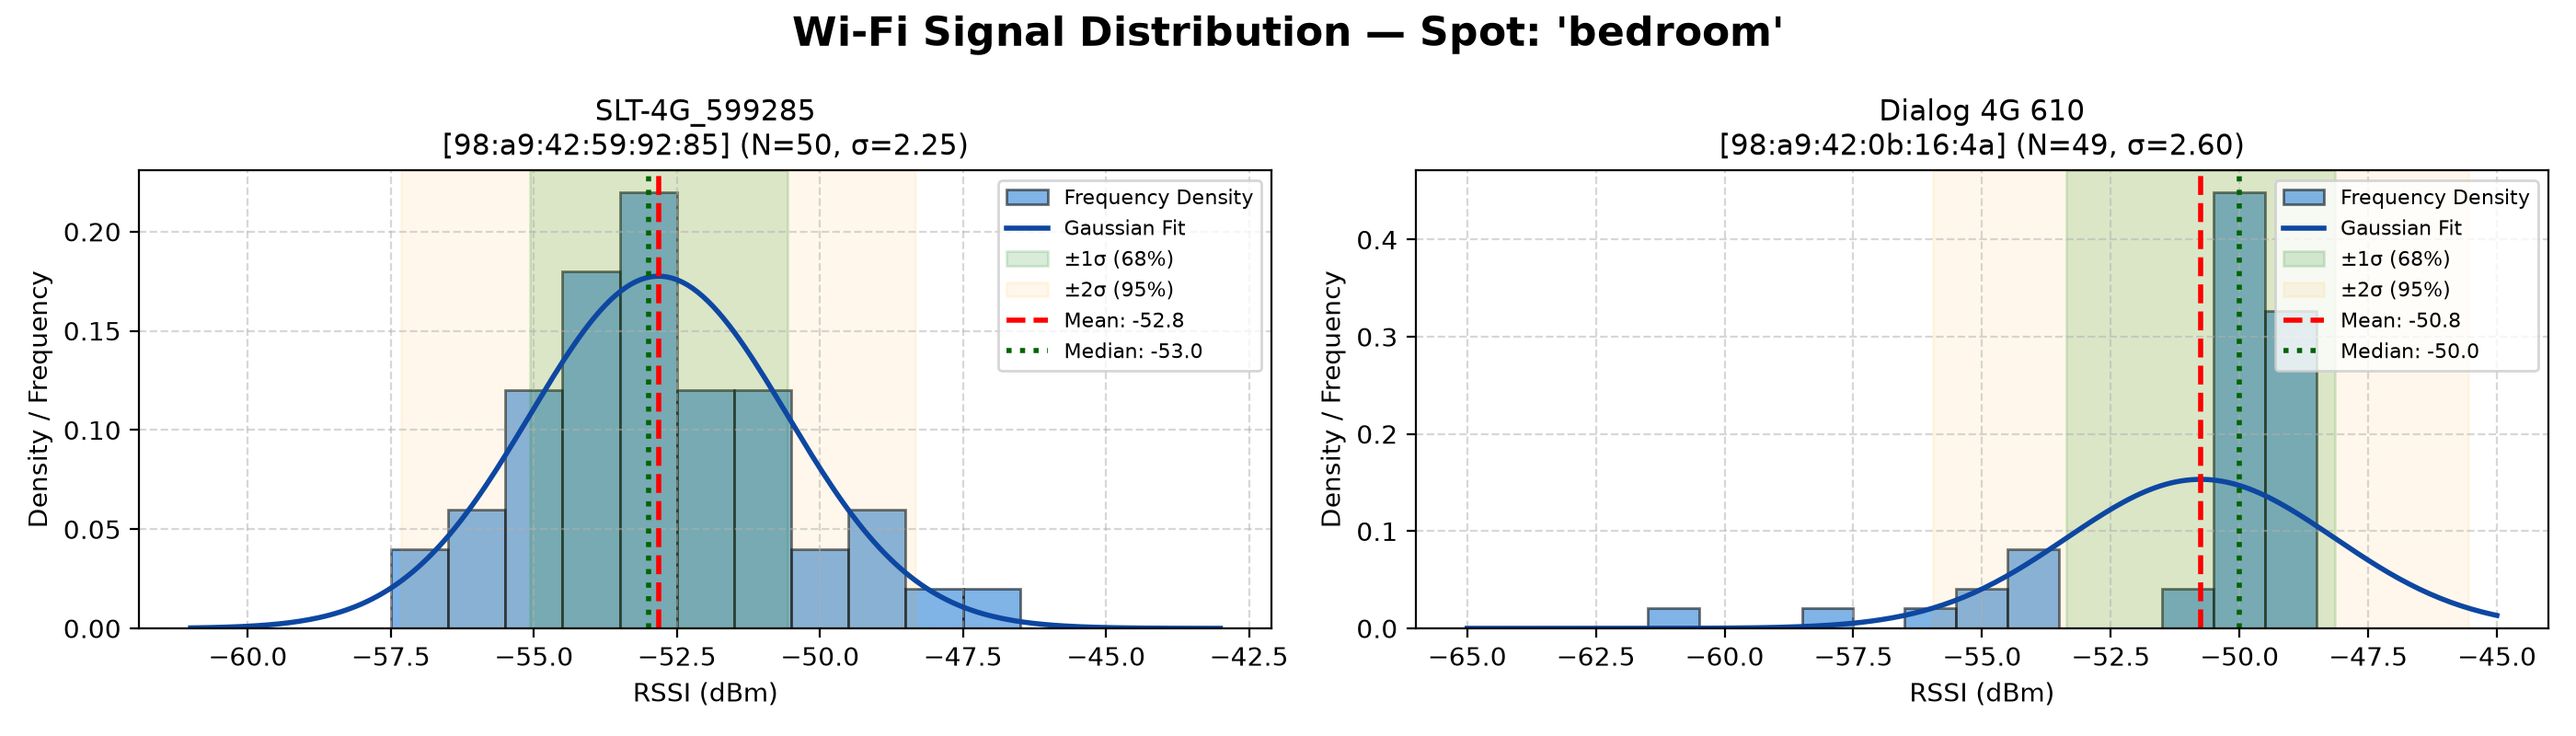
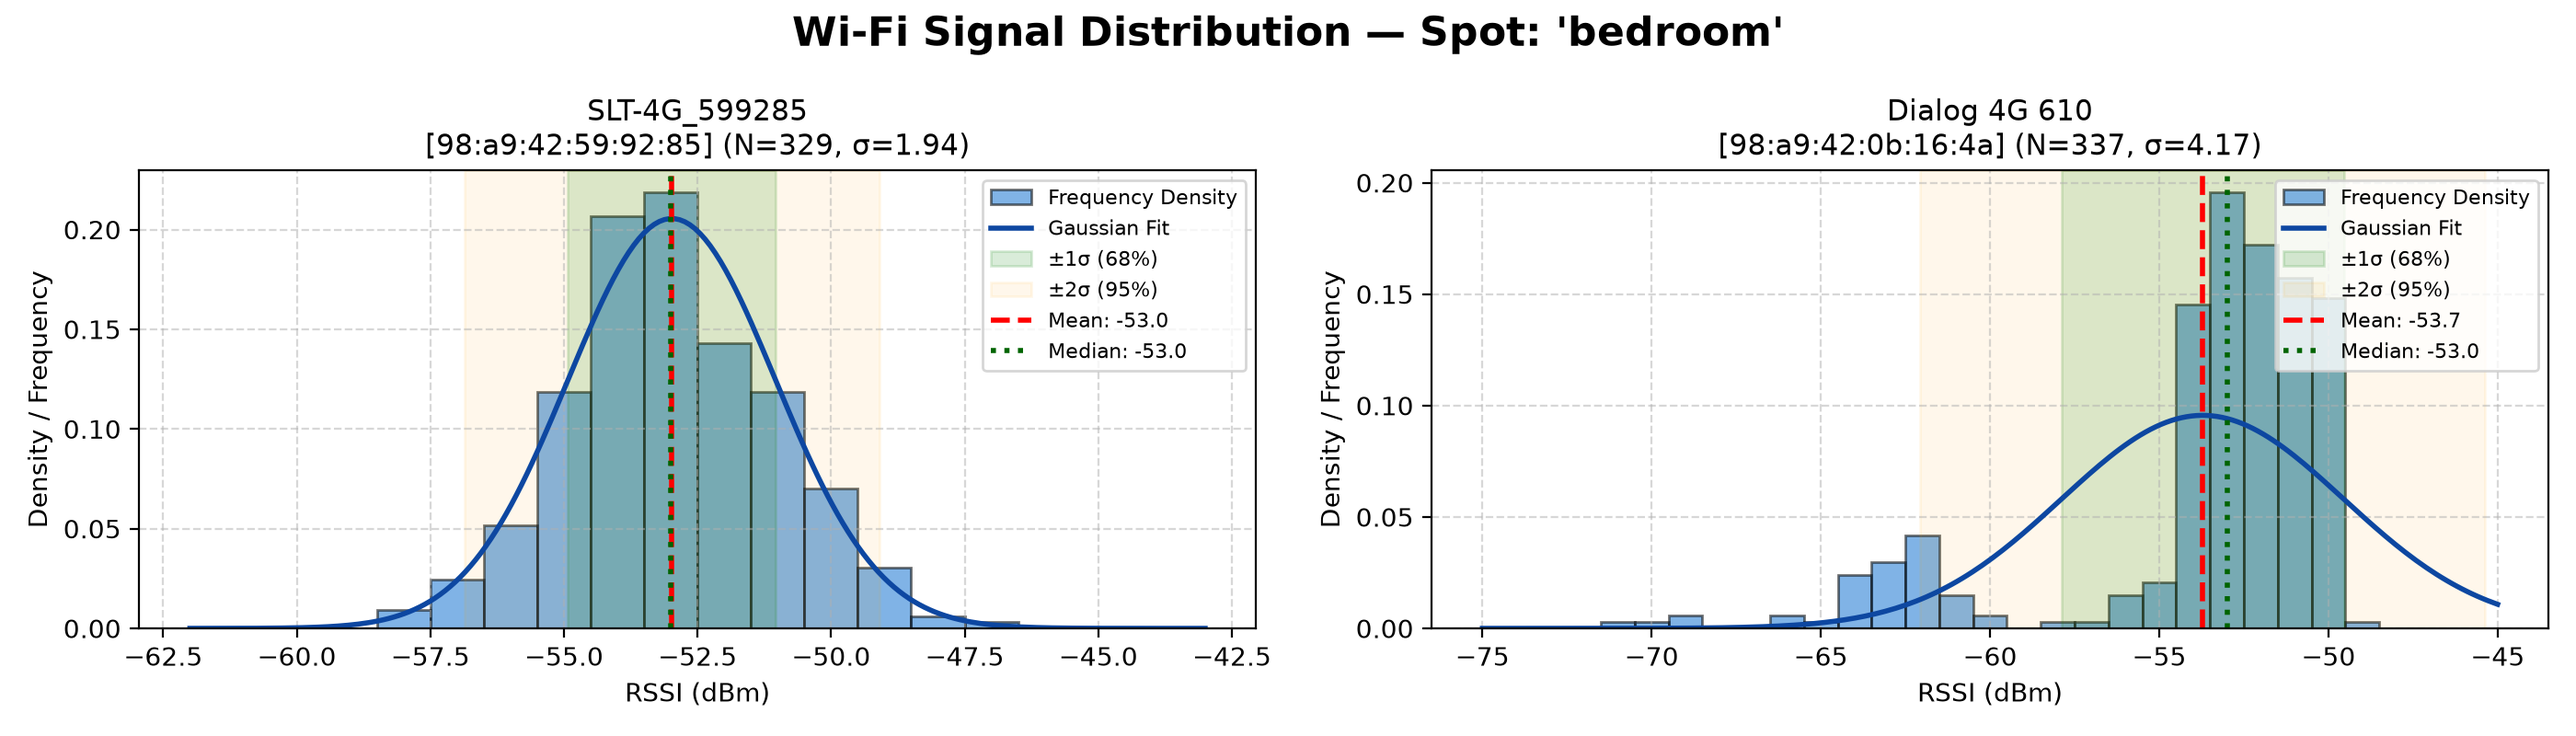
Update dataset with 330-385 high-iteration mobile survey and new distribution plots

diff --git a/esp32_tool.py b/esp32_tool.py
@@ -1,0 +1,83 @@
+#!/usr/bin/env python3
+"""
+ESP32 Serial Monitor & Data Exporter
+===================================
+Solves the Linux CP210x DTR/RTS auto-reset issue and lets you:
+  - View live survey progress
+  - Send commands: 'survey', 'status', 'dump', 'clear'
+  - Save the dumped CSV directly to wifi_fingerprints.csv
+"""
+
+import sys
+import time
+import serial
+
+PORT = "/dev/ttyUSB0"
+BAUD = 115200
+
+def main():
+    print(f"🔌 Connecting to ESP32 on {PORT} at {BAUD} baud...")
+    try:
+        ser = serial.Serial(PORT, BAUD, timeout=0.5)
+    except serial.SerialException as e:
+        print(f"\n❌ Port Busy or Not Found: {e}")
+        print("💡 Make sure to CLOSE the Arduino IDE Serial Monitor window first!\n")
+        return
+
+    # CRITICAL FOR LINUX CP210x: Release DTR and RTS so ESP32 is NOT held in reset!
+    ser.setDTR(False)
+    ser.setRTS(False)
+    time.sleep(0.1)
+
+    # Clean reboot pulse
+    ser.setDTR(False)
+    ser.setRTS(True)
+    time.sleep(0.05)
+    ser.setRTS(False)
+
+    print("✅ Connected! ESP32 released from reset.")
+    print("Commands: Type 'survey', 'status', 'dump', 'clear' (or press physical BOOT button)")
+    print("Press Ctrl+C to exit.\n")
+    print("-" * 50)
+
+    import threading
+
+    def read_serial():
+        saving_dump = False
+        dump_lines = []
+        try:
+            while True:
+                line = ser.readline().decode("utf-8", errors="replace")
+                if line:
+                    sys.stdout.write(line)
+                    sys.stdout.flush()
+
+                    if "START OF EXPORT" in line:
+                        saving_dump = True
+                        dump_lines = []
+                    elif "END OF EXPORT" in line:
+                        saving_dump = False
+                        if dump_lines:
+                            with open("wifi_fingerprints.csv", "w") as f:
+                                f.write("".join(dump_lines))
+                            print(f"\n🎉 Successfully saved {len(dump_lines)} lines to 'wifi_fingerprints.csv'!\n")
+                    elif saving_dump and not line.startswith("="):
+                        dump_lines.append(line)
+        except Exception:
+            pass
+
+    t = threading.Thread(target=read_serial, daemon=True)
+    t.start()
+
+    try:
+        while True:
+            cmd = input()
+            if cmd.strip():
+                ser.write((cmd.strip() + "\n").encode("utf-8"))
+    except KeyboardInterrupt:
+        print("\n👋 Disconnected.")
+    finally:
+        ser.close()
+
+if __name__ == "__main__":
+    main()
